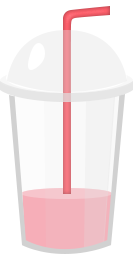
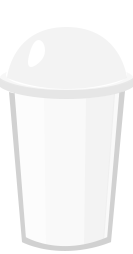
change

diff --git a/example/phone/index.html b/example/phone/index.html
@@ -3,161 +3,7 @@
 <head>
     <meta charset="UTF-8">
     <title>Title</title>
-    <style>
-        body{
-            margin:0;
-            overflow: hidden;
-        }
-        .box{
-            width:100vw;
-            height:100vh;
-            background: linear-gradient(to right top,#fff3f5,#ffcbd1);
-            display: flex;
-            justify-content: center;
-            align-items:center;
-        }
-        .round{
-            width:500px;
-            height:500px;
-            border-radius: 500%;
-            background: linear-gradient(to right top,#fddadf,#f8a8b3);
-            display: flex;
-            justify-content: center;
-            align-items:center;
-        }
-        .phone{
-            width:299px;
-            height: 610px;
-            background: url("img/phone.png") no-repeat;
-            position: relative;
-            /*overflow: hidden;*/
-        }
-        .cup{
-            width:133px;
-            height:254px;
-            background: url("img/cup.png") no-repeat;
-            position: absolute;
-            top:152px;
-            left:80px;
-        }
-        .roundBox{
-            width:266px;
-            height:188px;
-            position: absolute;
-            bottom:15px;
-            left: 15px;
-            overflow: hidden;
-        }
-        .roundList{
-            width: 484px;
-            height: 484px;
-            border:1px solid #bb8b23;
-            border-radius: 50%;
-            position: absolute;
-            top:59px;
-            left: 50%;
-            margin-left:-242px;
-            transition: 0.5s;
-            transform: rotate(54deg);
-        }
-        .item{
-            width:50px;
-            height:50px;
-            background: #fff;
-            border-radius: 50%;
-            box-shadow: 0 0 10px 0 rgba(255,156,112,0.1);
-            position: absolute;
-            top:0;
-            left:0;
-            right:0;
-            bottom:0;
-            margin: auto;
-            transition: 0.5s;
-            cursor: pointer;
-        }
-        .item.peach{
-            background: #fff url("img/peach.png") no-repeat center;
-            transform: rotate(0deg) translateX(-240px);
-        }
-        .item.peach.active{
-            background: #fff url("img/peach.png") no-repeat center;
-            transform: rotate(0deg) translateX(-240px) scale(1.2);
-            box-shadow: 0 0 20px 0 rgba(255,156,112,0.4);
-        }
-        .item.grape{
-            background: #fff url("img/grape.png") no-repeat center;
-            transform: rotate(18deg) translateX(-240px);
-        }
-        .item.grape.active{
-            background: #fff url("img/grape.png") no-repeat center;
-            transform: rotate(18deg) translateX(-240px) scale(1.2);
-            box-shadow: 0 0 20px 0 rgba(255,156,112,0.4);
-        }
-        .item.lemon{
-            background: #fff url("img/lemon.png") no-repeat center;
-            transform: rotate(36deg) translateX(-240px);
-        }
-        .item.lemon.active{
-            background: #fff url("img/lemon.png") no-repeat center;
-            transform: rotate(36deg) translateX(-240px) scale(1.2);
-            box-shadow: 0 0 20px 0 rgba(255,156,112,0.4);
-        }
-        .item.pineapple{
-            background: #fff url("img/pineapple.png") no-repeat center;
-            transform: rotate(54deg) translateX(-240px);
-        }
-        .item.pineapple.active{
-            background: #fff url("img/pineapple.png") no-repeat center;
-            transform: rotate(54deg) translateX(-240px) scale(1.2);
-            box-shadow: 0 0 20px 0 rgba(255,156,112,0.4);
-        }
-        .item.strawberry{
-            background: #fff url("img/strawberry.png") no-repeat center;
-            transform: rotate(72deg) translateX(-240px);
-        }
-        .item.strawberry.active{
-            background: #fff url("img/strawberry.png") no-repeat center;
-            transform: rotate(72deg) translateX(-240px) scale(1.2);
-            box-shadow: 0 0 20px 0 rgba(255,156,112,0.4);
-        }
-        .item.active .btn{
-            opacity:1;
-        }
-        .item .btn{
-            width:240%;
-            height:30px;
-            border-radius: 15px;
-            background: #ff656f;
-            line-height:30px;
-            text-align: center;
-            color: #fff;
-            opacity:0;
-            transition:opacity 0.5s 0.4s;
-            transform: rotate(-90deg) scale(0.5);
-            position: absolute;
-            top:10px;
-            left: -4px;
-            cursor: pointer;
-        }
-        .item .btn:hover{
-            background: #ff8d94;
-        }
-        .submit{
-            width:215px;
-            height:54px;
-            border-radius: 6px;
-            box-shadow: 0 0 20px 0 rgba(255,156,112,0.3);
-            background: #fff url("img/btn.png") no-repeat;
-            position: absolute;
-            top:121px;
-            left:26px;
-        }
-        .mark{
-            width:91px;
-            height:11px;
-            background: url("img/mark.png") no-repeat;
-        }
-    </style>
+    <link rel="stylesheet" href="css/style.css">
 </head>
 <body>
 
@@ -165,7 +11,12 @@
     <div class="round">
         <div class="phone">
             <div class="cup">
-                <div class="mark"></div>
+                <div class="weater"></div>
+                <div class="weaterYellow"></div>
+                <div class="mark">
+                    <span class="straw"></span>
+                </div>
+                <img src="img/cup.png">
             </div>
             <div class="roundBox">
                 <div class="roundList">

diff --git a/example/phone/css/style.css b/example/phone/css/style.css
@@ -1,0 +1,213 @@
+body{
+    margin:0;
+    overflow: hidden;
+}
+.box{
+    width:100vw;
+    height:100vh;
+    background: linear-gradient(to right top,#fff3f5,#ffcbd1);
+    display: flex;
+    justify-content: center;
+    align-items:center;
+}
+.round{
+    width:500px;
+    height:500px;
+    border-radius: 500%;
+    background: linear-gradient(to right top,#fddadf,#f8a8b3);
+    display: flex;
+    justify-content: center;
+    align-items:center;
+}
+.phone{
+    width:299px;
+    height: 610px;
+    background: url("../img/phone.png") no-repeat;
+    position: relative;
+    /*overflow: hidden;*/
+}
+.cup{
+    width:133px;
+    height:254px;
+    position: absolute;
+    top:152px;
+    left:80px;
+    background: url("../img/straw.png") no-repeat;
+}
+.cup img{
+    position: absolute;
+    top:0;
+    left: 0;
+}
+.cup .mark{
+    width:89px;/*89 95*/
+    height:11px;
+    background: url("../img/mark.png") no-repeat;
+    background-size: 100%;
+    position: absolute;
+    top:192px;/*192 158*/
+    left:22px;/*22 19*/
+    transition: 0.5s;
+}
+.cup .mark .straw{
+    width:16px;
+    height: 8px;
+    background: url("../img/straws.png") no-repeat;
+    transform: translateX(37px);/*37 40*/
+    position: absolute;
+    transition: 0.8s;
+}
+.cup .weater{
+    width:82px;
+    border-width:54px 5px 0;
+    border-style:solid;
+    border-color: #f8a8b3 transparent;
+    border-radius: 0 0 60px 60px/0 0 20px 20px;
+    position: absolute;
+    bottom:8px;
+    left: 19px;
+}
+.cup .weaterYellow{
+    width:88px;
+    border-width:0 5px 0;
+    border-style:solid;
+    border-color: #f1ff13 transparent;
+    border-radius: 0 0 80px 80px/0 0 20px 20px;
+    position: absolute;
+    bottom:52px;
+    left: 18px;
+    transition: 0.5s;
+}
+.cup:hover .weaterYellow{
+    width:88px;
+    border-width:44px 5px 0;
+    border-style:solid;
+    border-color: yellow transparent;
+    border-radius: 0 0 80px 80px/0 0 20px 20px;
+    position: absolute;
+    bottom:52px;
+    left: 18px;
+}
+.cup:hover .mark{
+    width:95px;/*89 95*/
+    top:158px;/*192 158*/
+    left:19px;/*22 19*/
+}
+.cup:hover .mark .straw{
+    transition: 0.2s;
+    transform: translateX(40px);/*37 40*/
+}
+
+.roundBox{
+    width:266px;
+    height:188px;
+    position: absolute;
+    bottom:15px;
+    left: 15px;
+    overflow: hidden;
+}
+.roundList{
+    width: 484px;
+    height: 484px;
+    border:1px solid #bb8b23;
+    border-radius: 50%;
+    position: absolute;
+    top:59px;
+    left: 50%;
+    margin-left:-242px;
+    transition: 0.5s;
+    transform: rotate(54deg);
+}
+.item{
+    width:50px;
+    height:50px;
+    background: #fff;
+    border-radius: 50%;
+    box-shadow: 0 0 10px 0 rgba(255,156,112,0.1);
+    position: absolute;
+    top:0;
+    left:0;
+    right:0;
+    bottom:0;
+    margin: auto;
+    transition: 0.5s;
+    cursor: pointer;
+}
+.item.peach{
+    background: #fff url("../img/peach.png") no-repeat center;
+    transform: rotate(0deg) translateX(-240px);
+}
+.item.peach.active{
+    background: #fff url("../img/peach.png") no-repeat center;
+    transform: rotate(0deg) translateX(-240px) scale(1.2);
+    box-shadow: 0 0 20px 0 rgba(255,156,112,0.4);
+}
+.item.grape{
+    background: #fff url("../img/grape.png") no-repeat center;
+    transform: rotate(18deg) translateX(-240px);
+}
+.item.grape.active{
+    background: #fff url("../img/grape.png") no-repeat center;
+    transform: rotate(18deg) translateX(-240px) scale(1.2);
+    box-shadow: 0 0 20px 0 rgba(255,156,112,0.4);
+}
+.item.lemon{
+    background: #fff url("../img/lemon.png") no-repeat center;
+    transform: rotate(36deg) translateX(-240px);
+}
+.item.lemon.active{
+    background: #fff url("../img/lemon.png") no-repeat center;
+    transform: rotate(36deg) translateX(-240px) scale(1.2);
+    box-shadow: 0 0 20px 0 rgba(255,156,112,0.4);
+}
+.item.pineapple{
+    background: #fff url("../img/pineapple.png") no-repeat center;
+    transform: rotate(54deg) translateX(-240px);
+}
+.item.pineapple.active{
+    background: #fff url("../img/pineapple.png") no-repeat center;
+    transform: rotate(54deg) translateX(-240px) scale(1.2);
+    box-shadow: 0 0 20px 0 rgba(255,156,112,0.4);
+}
+.item.strawberry{
+    background: #fff url("../img/strawberry.png") no-repeat center;
+    transform: rotate(72deg) translateX(-240px);
+}
+.item.strawberry.active{
+    background: #fff url("../img/strawberry.png") no-repeat center;
+    transform: rotate(72deg) translateX(-240px) scale(1.2);
+    box-shadow: 0 0 20px 0 rgba(255,156,112,0.4);
+}
+.item.active .btn{
+    opacity:1;
+}
+.item .btn{
+    width:240%;
+    height:30px;
+    border-radius: 15px;
+    background: #ff656f;
+    line-height:30px;
+    text-align: center;
+    color: #fff;
+    opacity:0;
+    transition:opacity 0.5s 0.4s;
+    transform: rotate(-90deg) scale(0.5);
+    position: absolute;
+    top:10px;
+    left: -4px;
+    cursor: pointer;
+}
+.item .btn:hover{
+    background: #ff8d94;
+}
+.submit{
+    width:215px;
+    height:54px;
+    border-radius: 6px;
+    box-shadow: 0 0 20px 0 rgba(255,156,112,0.3);
+    background: #fff url("../img/btn.png") no-repeat;
+    position: absolute;
+    top:121px;
+    left:26px;
+}
+
